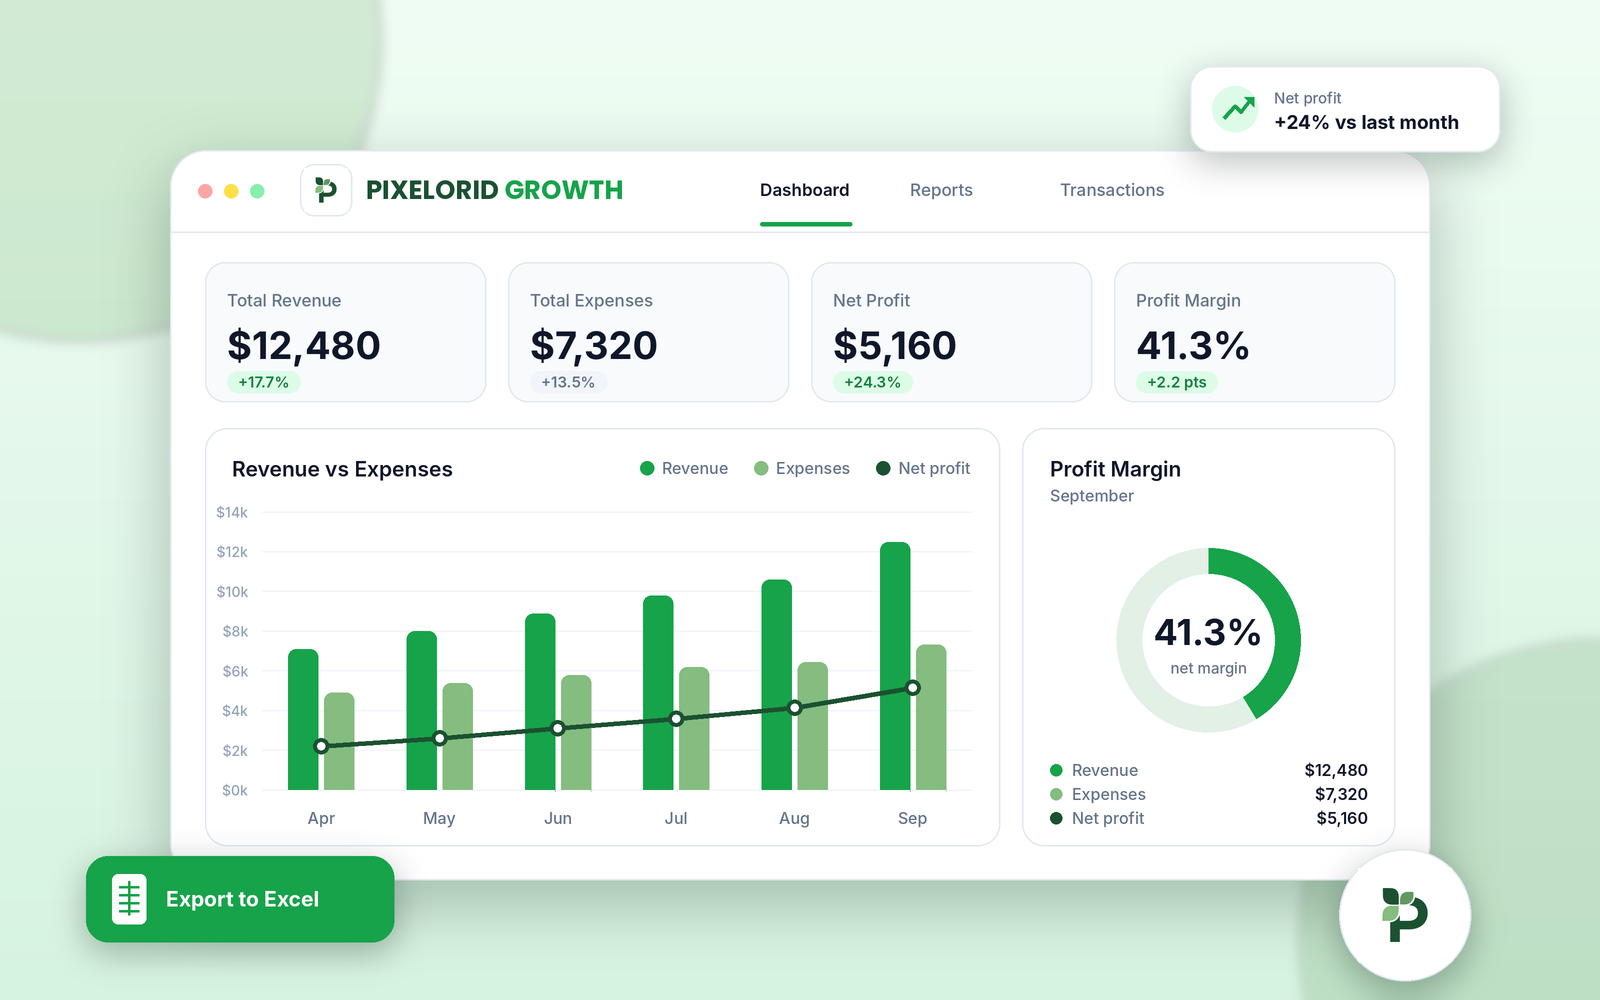
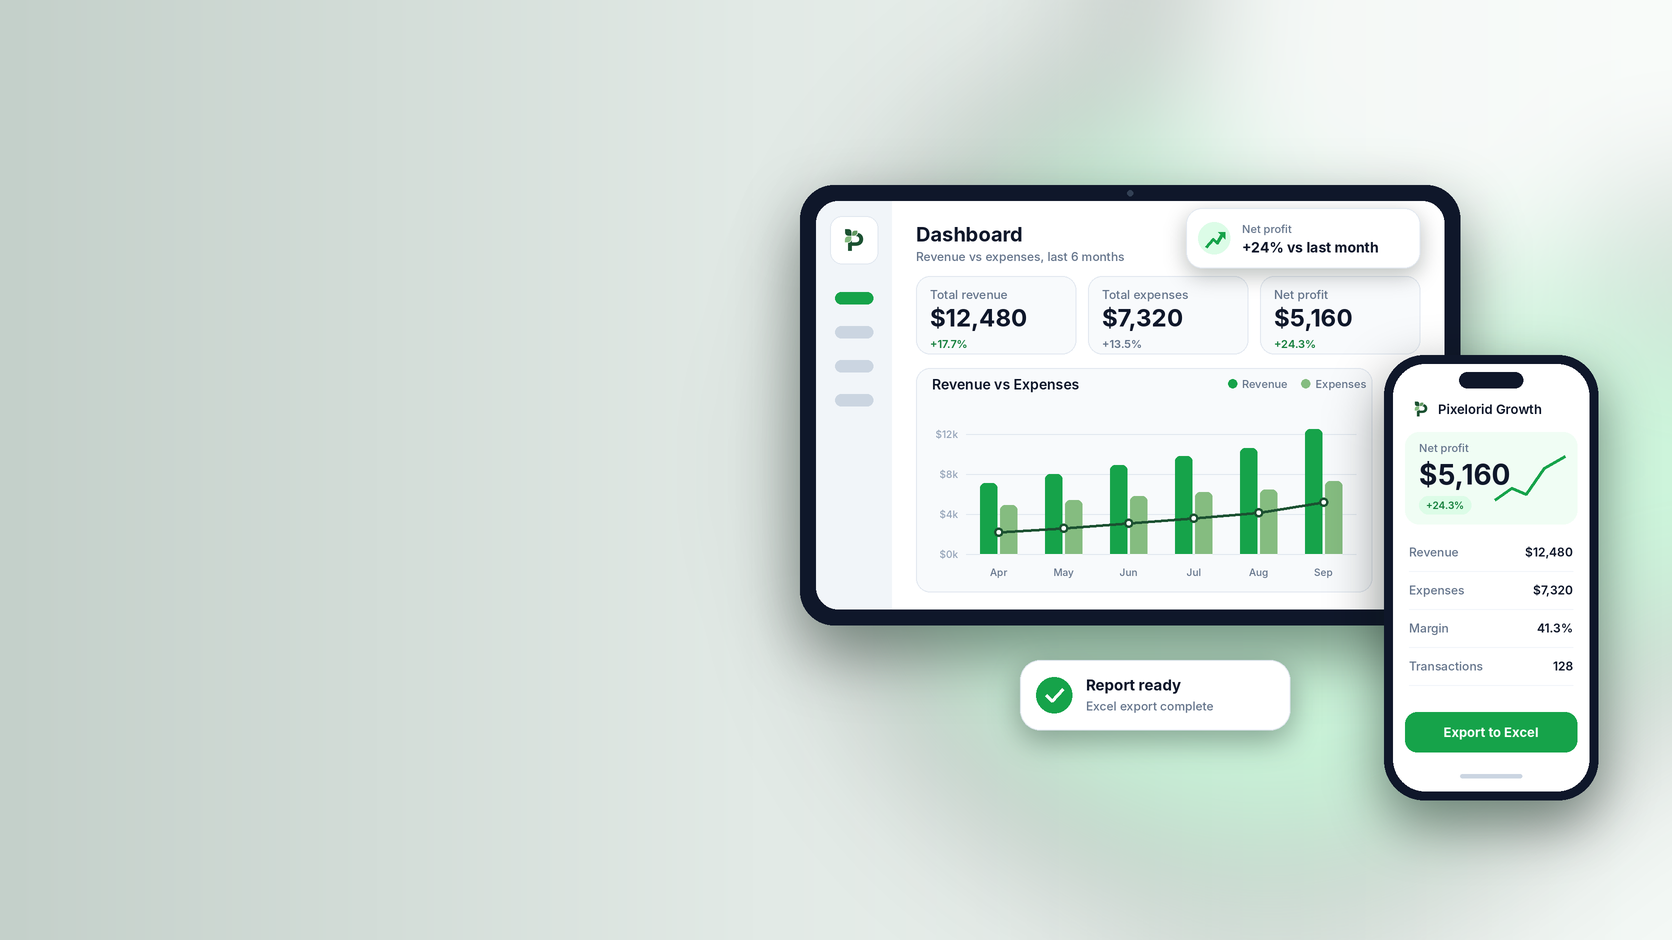
Add Pixelorid Growth hero slide with new hero image

diff --git a/app/components/HeroSlider.tsx b/app/components/HeroSlider.tsx
@@ -9,6 +9,7 @@ type HeroSlide = {
   description: string;
   ctaText: string;
   ctaHref: string;
+  ctaExternal?: boolean;
   secondaryCtaText: string;
   secondaryCtaHref: string;
   secondaryExternal?: boolean;
@@ -22,7 +23,7 @@ const slides: HeroSlide[] = [
     title: "Simple Technology for",
     highlight: "Growing Businesses",
     description:
-      "Pixelorid builds practical software and digital resources for small businesses: POS, Resto, Loop, and ready-to-use templates.",
+      "Pixelorid builds practical software and digital resources for small businesses: POS, Resto, Loop, Growth, and ready-to-use templates.",
     ctaText: "Explore Products",
     ctaHref: "/products",
     secondaryCtaText: "Digital Products",
@@ -69,6 +70,18 @@ const slides: HeroSlide[] = [
     secondaryCtaText: "Try Pixelorid Loop Free",
     secondaryCtaHref: "https://loop.pixelorid.biz.id",
     secondaryExternal: true,
+  },
+  {
+    image: "/hero-pixelorid-growth.png",
+    title: "Simple Finance for",
+    highlight: "Small Businesses",
+    description:
+      "Pixelorid Growth helps small businesses record revenue and expenses, see profit at a glance, and export clear reports to Excel.",
+    ctaText: "Try Pixelorid Growth Free",
+    ctaHref: "https://growth.pixelorid.biz.id",
+    ctaExternal: true,
+    secondaryCtaText: "View All Products",
+    secondaryCtaHref: "/products",
   },
   {
     image: "/hero-digital-products.png",
@@ -165,6 +178,9 @@ export default function HeroSlider() {
             <div className="mt-8 flex flex-col gap-3 sm:flex-row">
               <a
                 href={slide.ctaHref}
+                {...(slide.ctaExternal
+                  ? { target: "_blank", rel: "noopener noreferrer" }
+                  : {})}
                 className="inline-flex h-12 items-center justify-center rounded-xl bg-pixel-green px-6 font-bold text-white transition hover:bg-pixel-green-hover"
               >
                 {slide.ctaText}
